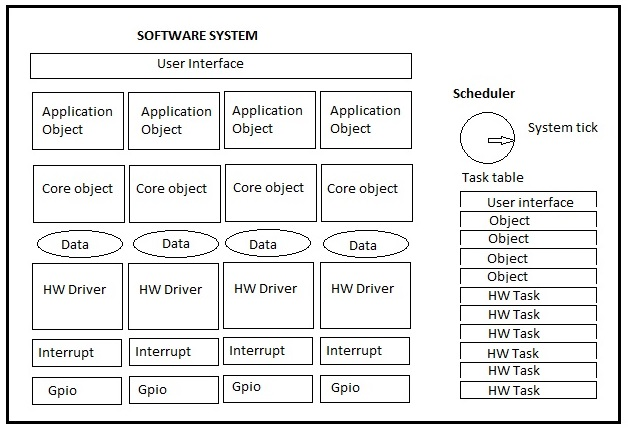
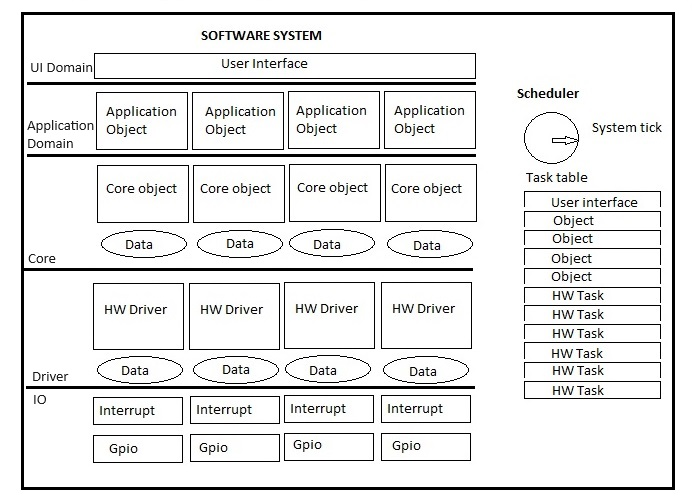
Adds domain analysis

Changed region(s): [[0.0, 0.0, 0.9984, 0.9954]]

diff --git a/html/designs/designs.html b/html/designs/designs.html
@@ -74,12 +74,24 @@
         margin-left: 80vw;
     }
 
-    .float {
-        float: left;
-        margin-top: 2vw;
-        margin-bottom: 2vw;
-        margin-right: 3vw;
-        width: 50vw
+    @media (max-width: 399px) {
+        .float {
+            float: left;
+            margin-top: 2vw;
+            margin-bottom: 2vw;
+            margin-right: 3vw;
+            width: 90vw
+        }
+    }
+
+    @media (min-width: 400px) {
+        .float {
+            float: left;
+            margin-top: 2vw;
+            margin-bottom: 2vw;
+            margin-right: 3vw;
+            width: 50vw
+        }
     }
 
     a:hover{opacity:0.5;}
@@ -162,12 +174,17 @@
                 The state machine should only change state when an event occurs, otherwise it should be doing nothing (ref. 'Idle time and interrupts' above).
                 These events should be generated either directly or indirectly via interrupt or change of state of a neighbouring task. I dislike and avoid polling
                 of any kind as this creates a processor overhead that (as mentioned) 90% of the time results in nothing happening.<br><br>
-                <p2>Objects and the real world<br></p2>
-                <p2>Using interrupts<br></p2>
-                   <p2>Sharing data (configuration)<br></p2>
-                <p2>Prioritisation<br></p2>
-                <p2>Interacting with hardware<br></p2>
-                <p2>Test interfaces<br></p2> 
+                <p2>Objects and the real world<br></p2><hr>
+                A software architecture is made of multiple domains. A precursor to designing should be a domain analysis. In the diagram above we can see that the 
+                user interface block can consitute a domain which we can analyse. Within it we may observe that it can comprise real world objects such as button(s), 
+                display(s), sound(s)s. Each of these can can have their own states. Below these objects can be core objects which hold data related to these objects.
+                A way to think of these is to attempt to restrict any concept of the data from knowledge of the object they supply. For example, a button will have
+                states of 'pressed', 'released', 'toggled', 'long press'. The core object will hold the values of the button state in units such as voltage or current.
+                Timing functions can reside insde these core objects to determine the events to pass to the UI object. They can perform debouncing, thresholds 
+                and sample history. Below these are the driver objects. These are specific to the hardware platform being used. They have knowledge of the IO to sample.
+                They have knowledge of the interrupts to configure and respond to. When interrupts occur, the hardware drivers process the interrupt and read any 
+                data provided. For example, an ADC interrupt trigger can signal to the driver that a reading is available to be sampled and made available to the core 
+                object.<br><br>
                 <br><br>                
             </div>
         </div>
